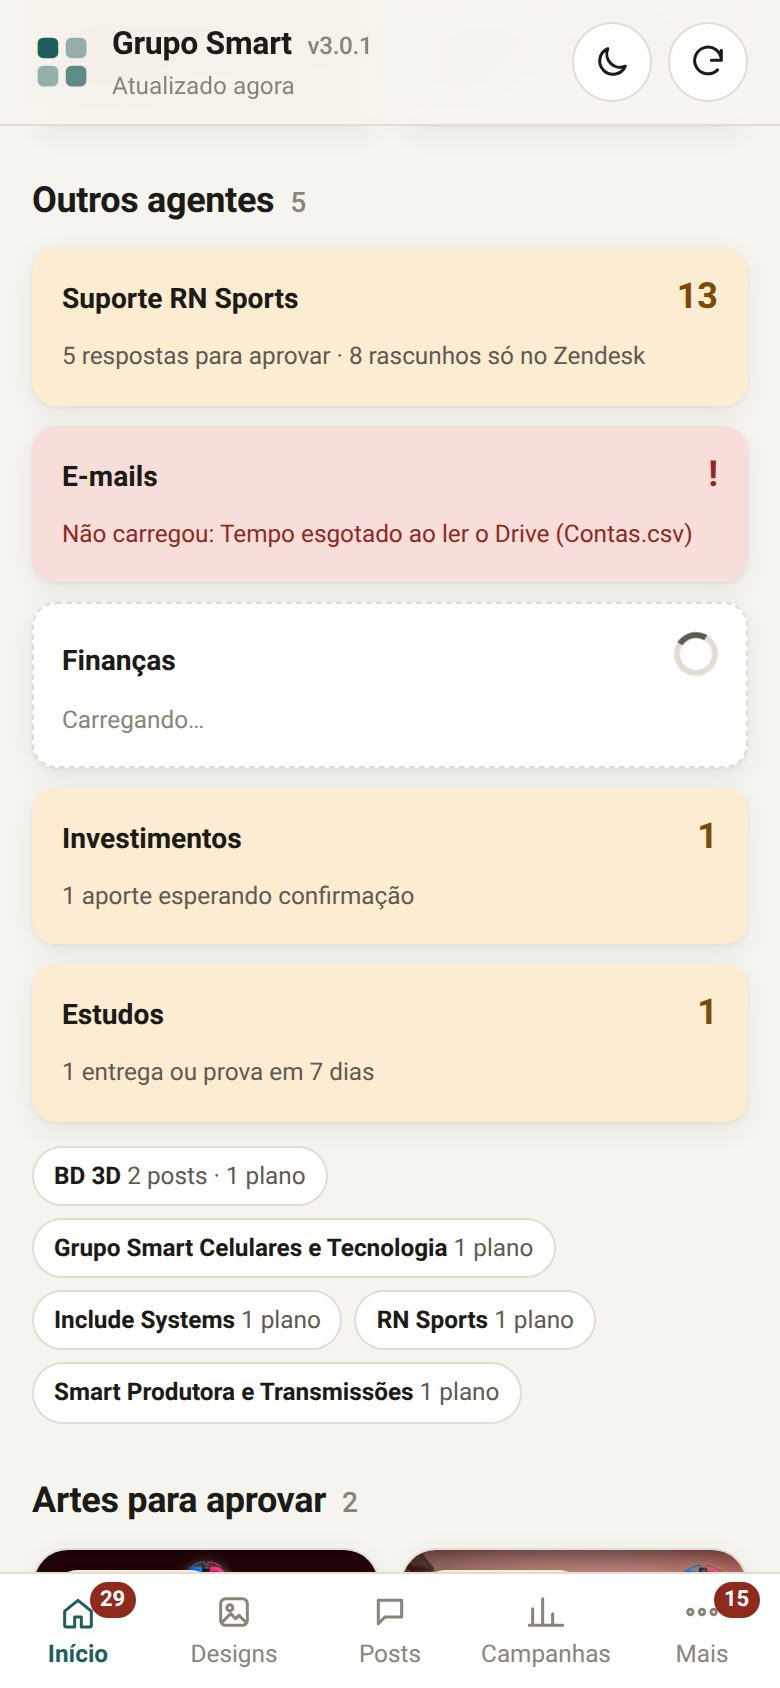
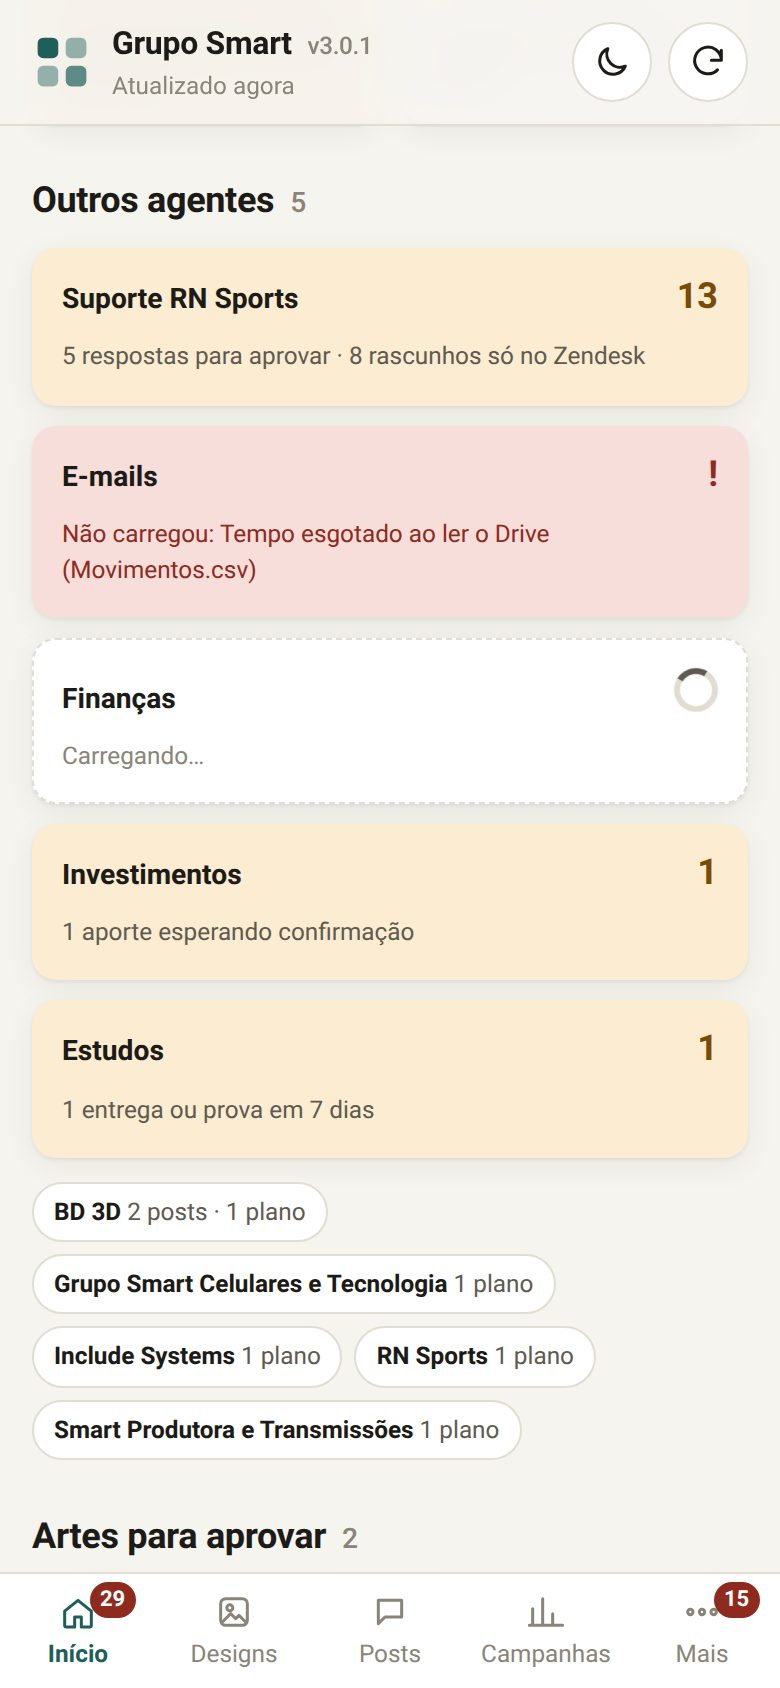
v3.0.1: texto do erro simulado com o arquivo do próprio módulo; capturas refeitas

Changed region(s): [[0.0308, 0.3081, 0.9538, 0.955], [0.5231, 0.8934, 0.9538, 0.955]]

diff --git a/dev/build.js b/dev/build.js
@@ -70,7 +70,7 @@ window.google = { script: { get run() {
       var q = window.__Q, i = Object.keys(window.__MODELO.v3 || {}).indexOf(id);
       if ((q.get('carregando') || '').split(',').indexOf(id) >= 0) return;
       setTimeout(function () {
-        if ((q.get('erro') || '').split(',').indexOf(id) >= 0) return fal(new Error('Tempo esgotado ao ler o Drive (Contas.csv)'));
+        if ((q.get('erro') || '').split(',').indexOf(id) >= 0) return fal(new Error('Tempo esgotado ao ler o Drive (' + ({ suporte: 'Chamados.csv', emails: 'Movimentos.csv', financas: 'Contas.csv', investimentos: 'Posicoes.csv', estudos: 'Cursos.csv' }[id] || id) + ')'));
         ok({ id: id, modulo: JSON.parse(JSON.stringify(window.__MODELO.v3[id])), fontes: window.__FONTES_V3[id] || [], gerado_em: new Date().toISOString() });
       }, q.get('lento') ? 1500 + i * 400 : 120 + i * 40); },
     obterMiniatura: function () { setTimeout(function () { ok(''); }, 50); },
